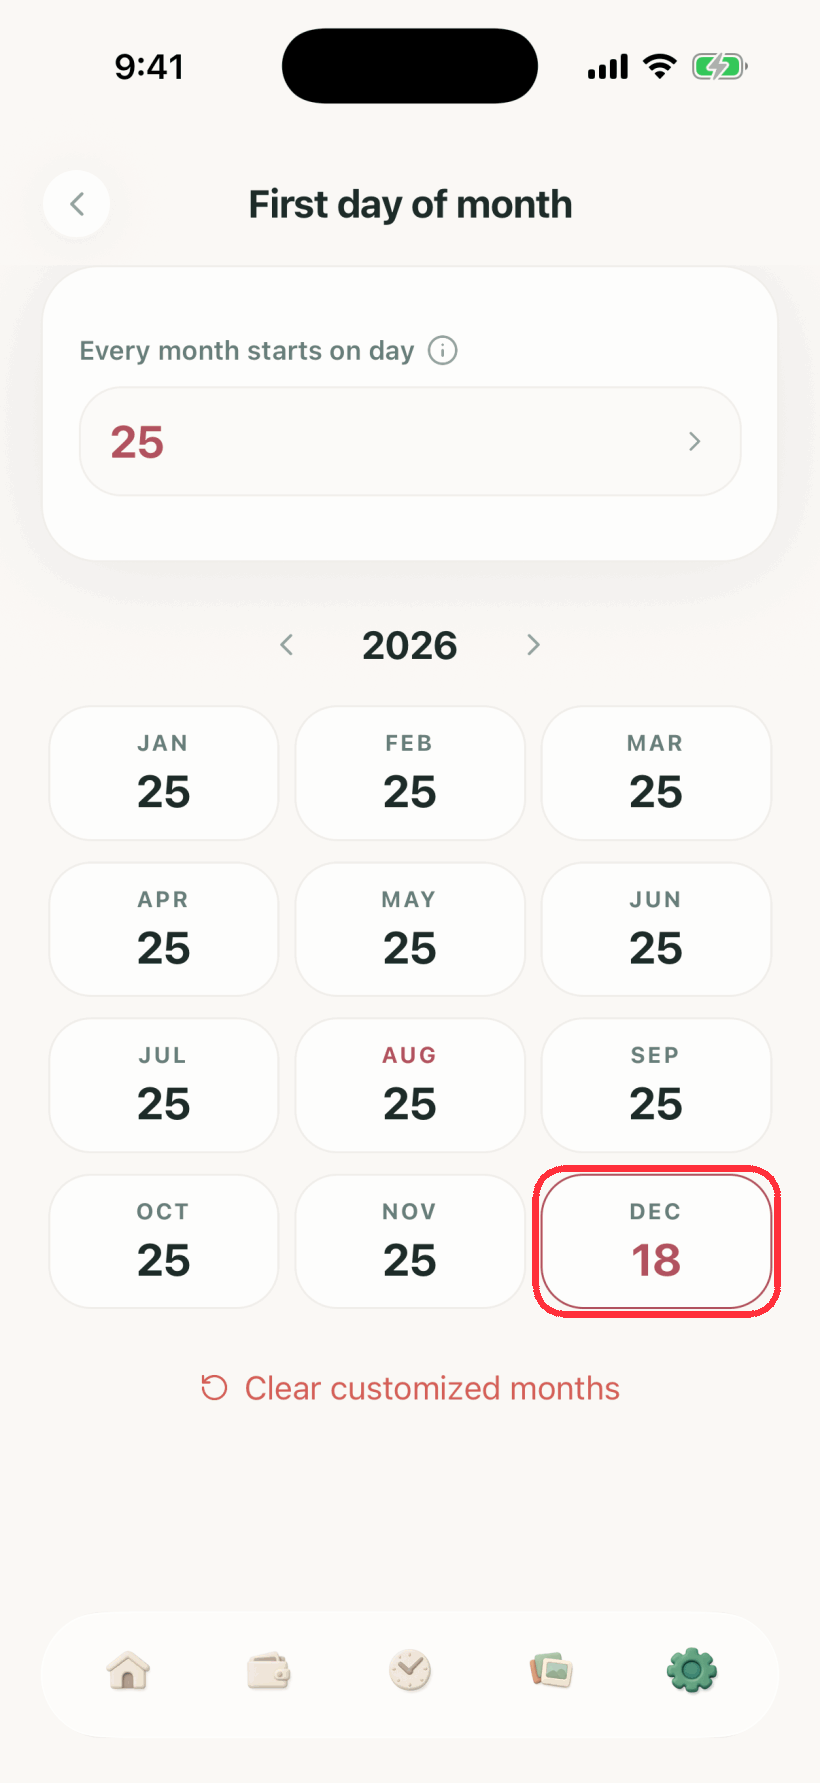
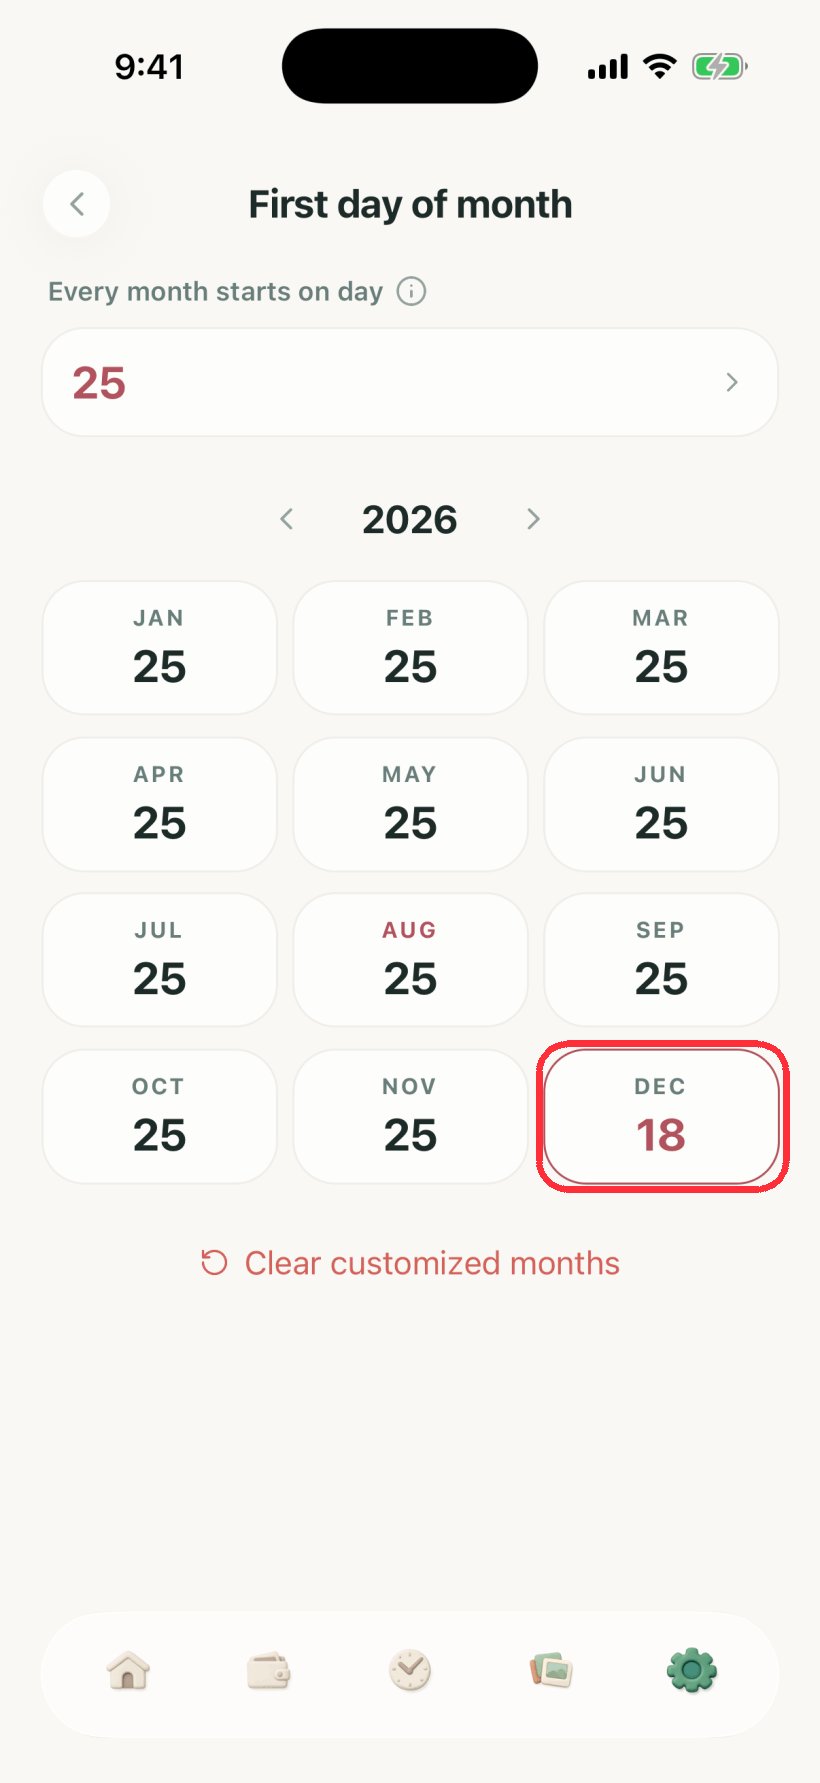
Take the default control out of its card
A card holding a single field was a container around a container, and
the only card left on a page whose month chips sit straight on the
background. The label and its tooltip now sit on the background too, with
the value as a card-surfaced field carrying the same border and lift as
the chips below it.

The chip grid gets -mx-1 to cancel its per-cell gutter, so the outer
chips line up flush with the field rather than 4px inside it.

Claude-Session: https://claude.ai/code/session_01Rn2kahjatwuSzShCZBbKqC

diff --git a/features/settings/screens/MonthCycleScreen.tsx b/features/settings/screens/MonthCycleScreen.tsx
@@ -3,8 +3,6 @@ import { useCallback, useMemo, useState } from 'react';
 import { Alert, Pressable, ScrollView, View } from 'react-native';
 
 import {
-  Card,
-  CardContent,
   InfoTooltipButton,
   SETTINGS_FORM_BOTTOM_PADDING,
   SETTINGS_HORIZONTAL_PADDING,
@@ -25,10 +23,10 @@ import {
   financialMonthKeyForDate,
   financialMonthRange,
   firstDayForMonthKey,
+  MAX_FIRST_DAY_OF_MONTH,
   monthCycleDefaultDay,
   monthCycleOf,
   monthCycleOverrideCount,
-  MAX_FIRST_DAY_OF_MONTH,
   serializeMonthCycleOverrides,
   withMonthCycleDefaultDay,
   withMonthCycleOverride,
@@ -174,38 +172,37 @@ export function MonthCycleScreen({ onBack }: MonthCycleScreenProps) {
           bottomNavInset,
         ]}
       >
-        <Card>
-          <CardContent className="py-4 gap-2.5">
-            {/* Label and tooltip sit above the value, like the fields on the
-                Display page this is reached from; the value below is the target,
-                so the number itself is what you tap. */}
-            <View className="flex-row items-center gap-1.5">
-              <Text variant="caption" tone="muted">
-                {I18n.t('settings.month_cycle.default_row')}
-              </Text>
-              <InfoTooltipButton
-                title={I18n.t('settings.first_day_of_month')}
-                infoTooltip={I18n.t('settings.first_day_of_month_help')}
-              />
-            </View>
-            <Pressable
-              accessibilityRole="button"
-              accessibilityLabel={I18n.t('settings.month_cycle.default_row')}
-              accessibilityValue={{ text: String(defaultDay) }}
-              onPress={() => {
-                void triggerHaptic('selection');
-                setEditing({ kind: 'default' });
-              }}
-              className="h-[54px] flex-row items-center gap-3 rounded-3xl border border-border/40 bg-background/60 px-4"
-              style={({ pressed }) => ({ opacity: pressed ? 0.6 : 1 })}
-            >
-              <Text variant="monoLg" className="flex-1" style={{ color: themeColors.primary }}>
-                {defaultDay}
-              </Text>
-              <ChevronRight size={16} color={themeColors.textMuted} />
-            </Pressable>
-          </CardContent>
-        </Card>
+        {/* Label and tooltip sit above the value, like the fields on the
+            Display page this is reached from. Both sit straight on the
+            background, like the month chips below: a card holding one field
+            would be a container around a container. */}
+        <View className="mt-1 gap-2.5">
+          <View className="flex-row items-center gap-1.5 px-1">
+            <Text variant="caption" tone="muted">
+              {I18n.t('settings.month_cycle.default_row')}
+            </Text>
+            <InfoTooltipButton
+              title={I18n.t('settings.first_day_of_month')}
+              infoTooltip={I18n.t('settings.first_day_of_month_help')}
+            />
+          </View>
+          <Pressable
+            accessibilityRole="button"
+            accessibilityLabel={I18n.t('settings.month_cycle.default_row')}
+            accessibilityValue={{ text: String(defaultDay) }}
+            onPress={() => {
+              void triggerHaptic('selection');
+              setEditing({ kind: 'default' });
+            }}
+            className="h-[54px] flex-row items-center gap-3 rounded-3xl border border-border/50 bg-card px-4"
+            style={({ pressed }) => ({ opacity: pressed ? 0.6 : 1, ...chipShadow })}
+          >
+            <Text variant="monoLg" className="flex-1" style={{ color: themeColors.primary }}>
+              {defaultDay}
+            </Text>
+            <ChevronRight size={16} color={themeColors.textMuted} />
+          </Pressable>
+        </View>
 
         <View className="mt-7 flex-row items-center justify-center gap-6">
           <YearStep
@@ -227,7 +224,9 @@ export function MonthCycleScreen({ onBack }: MonthCycleScreenProps) {
 
         {/* Chips sit straight on the background, like the settings grid: a card
             of cards would flatten them into the surface they stand on. */}
-        <View className="mt-4 flex-row flex-wrap" style={{ rowGap: 10 }}>
+        {/* -mx-1 cancels the per-cell gutter so the outer chips line up flush
+            with the field above them. */}
+        <View className="mt-4 -mx-1 flex-row flex-wrap" style={{ rowGap: 10 }}>
           {months.map((month) => (
             <View key={month.monthKey} className="w-1/3 px-1">
               <Pressable
